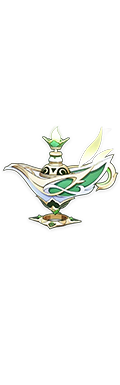
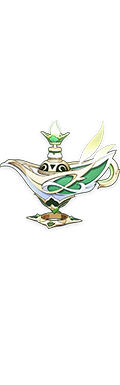
流浪者、珐露珊抽卡资源

Changed region(s): [[0.0, 0.3117, 1.0, 0.6234]]

diff --git a/CHANGELOG.md b/CHANGELOG.md
@@ -1,3 +1,9 @@
+# 2.1.2
+* 更新`流浪者、珐露珊`的抽卡资源
+  * **非官方**
+  * 使用`#抽卡设置五星角色流浪者`设置
+  * 珐露珊同理，**备注：四星必须三个**
+
 # 2.1.1
 * 更新`千夜浮梦`的抽卡资源
 * 更新`纳西妲、莱依拉`的转生图像
